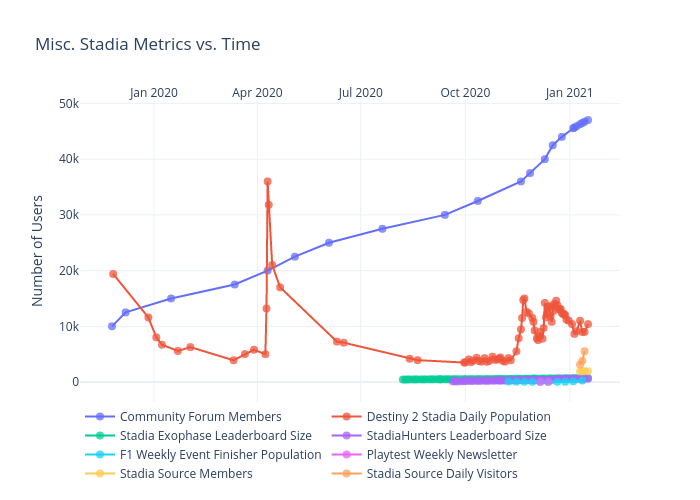
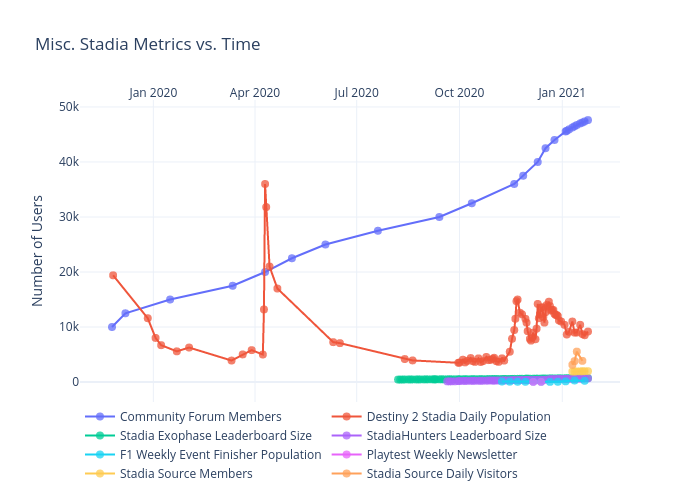
Add files via upload

diff --git a/misc/figure.js b/misc/figure.js
@@ -273,7 +273,8 @@ var figure = {
                 "46719",
                 "47012",
                 "47167",
-                "47367"
+                "47367",
+                "47613"
             ],
             "marker": {
                 "size": 8,
@@ -556,7 +557,8 @@ var figure = {
                 "9000",
                 "10400",
                 "8720",
-                "8510"
+                "8510",
+                "9180"
             ],
             "marker": {
                 "size": 8,
@@ -839,7 +841,8 @@ var figure = {
                 "712",
                 "713",
                 "715",
-                "718"
+                "718",
+                "719"
             ],
             "marker": {
                 "size": 8,
@@ -1122,7 +1125,8 @@ var figure = {
                 "591",
                 "597",
                 "633",
-                "652"
+                "652",
+                "656"
             ],
             "marker": {
                 "size": 8,
@@ -1943,7 +1947,8 @@ var figure = {
                 "1937",
                 "1945",
                 "1956",
-                "1965"
+                "1965",
+                "1976"
             ],
             "marker": {
                 "size": 8,
@@ -2244,8 +2249,8 @@ var figure = {
             "side": "top",
             "type": "date",
             "range": [
-                "2019-10-29 20:18:25.8159",
-                "2021-02-16 03:41:34.1841"
+                "2019-10-29 15:51:19.616",
+                "2021-02-19 08:08:40.384"
             ],
             "title": {
                 "text": ""
@@ -2255,8 +2260,8 @@ var figure = {
         "yaxis": {
             "type": "linear",
             "range": [
-                -3360.270371436799,
-                50754.270371436796
+                -3377.872156636914,
+                51017.87215663691
             ],
             "title": {
                 "text": "Number of Users"
